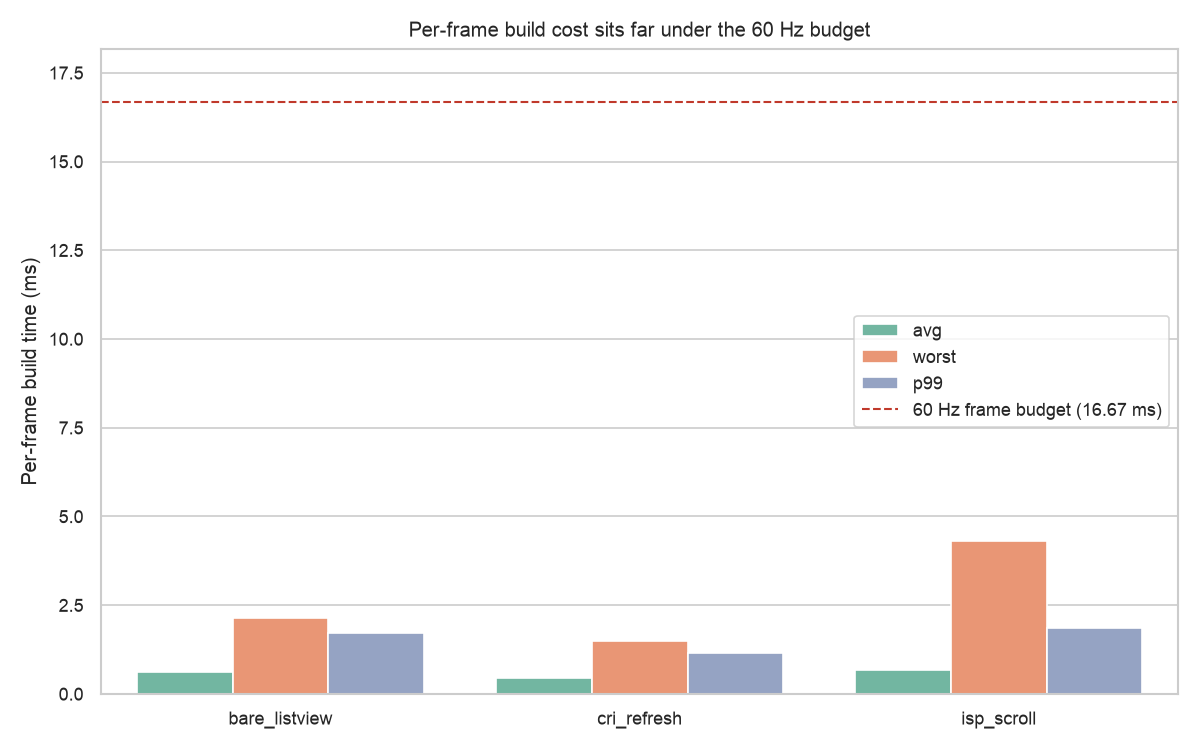
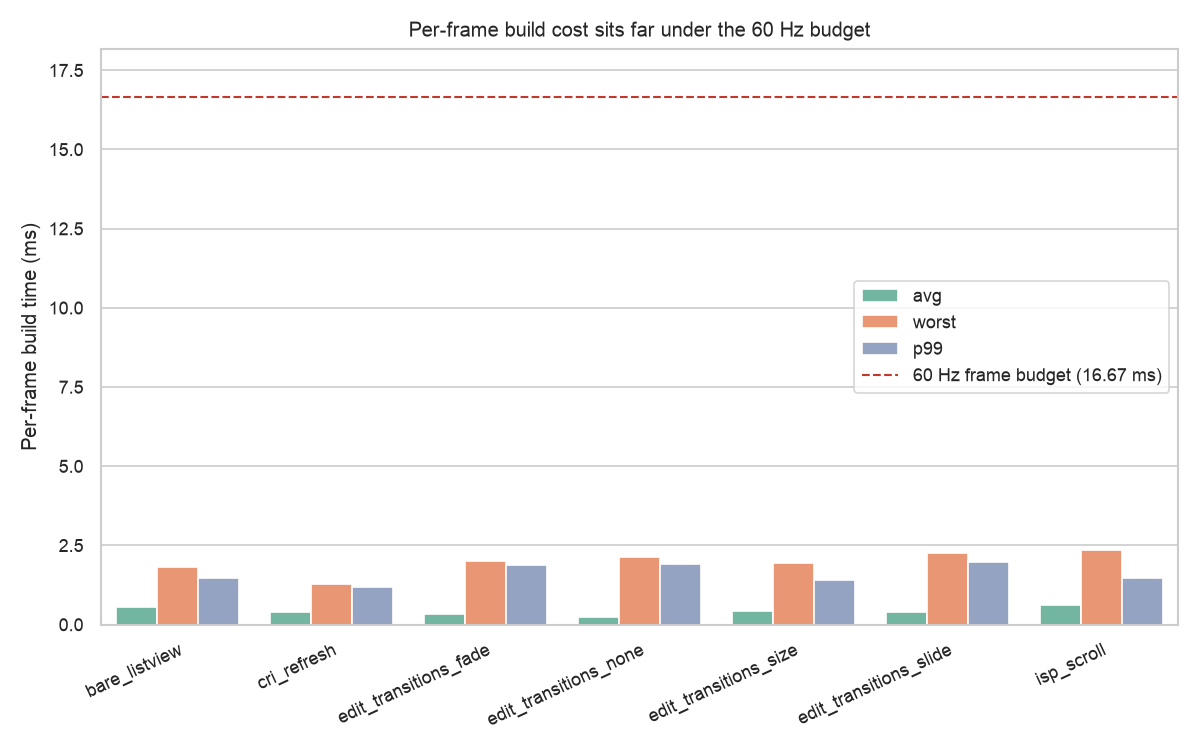
chore(bench): refresh reports at 2.0.0

diff --git a/benchmark/python/list_smith_bench/data/utils/charts.py b/benchmark/python/list_smith_bench/data/utils/charts.py
@@ -257,8 +257,22 @@ def _plot_frame_thread_costs(
         linewidth=1.0,
         label=f"60 Hz frame budget ({budget_ms:.2f} ms)",
     )
-    # A raster spike can pass the budget, and a clipped bar would hide by how much.
-    ax.set_ylim(0, max(budget_ms, long["ms"].max()) + 1.5)
+    top_ms = budget_ms + 1.5
+    ax.set_ylim(0, top_ms)
+    # A spike past the axis gets clipped and labelled, rather than squashing every other bar.
+    for container in ax.containers:
+        for bar in container:
+            if bar.get_height() > top_ms:
+                ax.annotate(
+                    f"{bar.get_height():.0f} ms",
+                    xy=(bar.get_x() + bar.get_width() / 2, top_ms),
+                    xytext=(0, -3),
+                    textcoords="offset points",
+                    ha="center",
+                    va="top",
+                    fontsize=7,
+                    bbox={"boxstyle": "round,pad=0.2", "facecolor": "white", "edgecolor": "none"},
+                )
     ax.set_xlabel("")
     # Tilted, or the edit_transitions_* names run into each other.
     plt.setp(ax.get_xticklabels(), rotation=25, ha="right", rotation_mode="anchor")

diff --git a/benchmark/reports/SUMMARY.md b/benchmark/reports/SUMMARY.md
@@ -1,6 +1,6 @@
 # Benchmark results
 
-Captured **2026-07-18** against `0.0.1` at `63b7319` on Dart SDK 3.12.2. N=10 iterations.
+Captured **2026-09-30** against `1.0.0` at `15aaf6e` on Dart SDK 3.13.4. N=10 iterations.
 
 > Per-machine measurements, reflecting *this* machine's CPU, GPU, GC, OS scheduler and thermal state. Yours WILL differ, so capture your own baseline before measuring a delta.
 
@@ -10,10 +10,10 @@ The headline finding. list_smith invokes your observer *synchronously* on the pa
 
 | Observer delay (ms) | Median render latency (ms) | Render minus observer (ms) | N |
 |---:|---:|---:|---:|
-| 0 | 17.2 | 17.2 | 10 |
-| 25 | 44.0 | 19.0 | 10 |
-| 50 | 69.2 | 19.2 | 10 |
-| 100 | 119.4 | 19.4 | 10 |
+| 0 | 17.0 | 17.0 | 10 |
+| 25 | 43.1 | 18.1 | 10 |
+| 50 | 68.4 | 18.4 | 10 |
+| 100 | 118.0 | 18.0 | 10 |
 
 
 ![Render latency vs observer delay](observer_latency.png)
@@ -24,9 +24,9 @@ From the `sync_search_scaling` micro (AOT, `benchmark_harness`). `SyncListView` 
 
 | List size | N | Median (us) | IQR (us) | Median (ms) |
 |---:|---:|---:|---:|---:|
-| 1,000 | 10 | 370.43 | 1.53 | 0.37 |
-| 10,000 | 10 | 3,925 | 44.34 | 3.93 |
-| 100,000 | 10 | 41,064 | 263.76 | 41.06 |
+| 1,000 | 10 | 371.38 | 1.32 | 0.37 |
+| 10,000 | 10 | 3,940 | 7.86 | 3.94 |
+| 100,000 | 10 | 41,315 | 78.06 | 41.31 |
 
 
 ![Sync-search scaling](sync_search_scaling.png)
@@ -37,22 +37,22 @@ From the `bucket_by_group_scaling` micro (AOT, `benchmark_harness`). Sync groupi
 
 | List size | N | Median (us) | IQR (us) | Median (ms) |
 |---:|---:|---:|---:|---:|
-| 1,000 | 10 | 225.95 | 1.56 | 0.23 |
-| 10,000 | 10 | 2,353 | 26.33 | 2.35 |
-| 100,000 | 10 | 26,079 | 127.91 | 26.08 |
+| 1,000 | 10 | 231.50 | 3.59 | 0.23 |
+| 10,000 | 10 | 2,372 | 32.50 | 2.37 |
+| 100,000 | 10 | 25,689 | 412.04 | 25.69 |
 
 
 ![Sync grouping scaling](bucket_by_group_scaling.png)
 
 ## Overlap de-dup cost vs loaded list size
 
-From the `dedup_scaling` micro (AOT, `benchmark_harness`). With an `itemId`, the async list de-dups overlapping pages as a computed view over the paging state, re-walking every loaded item on each change so the stored pages stay raw and the end policy can't read an all-duplicate page as the end. Measured at its worst case: `itemId` set with no actual overlap, so nothing collapses and every item is retained. Opt-in, and off the scroll path since it runs per page-load rather than per frame. Sub-millisecond for a few thousand loaded items and climbing from there, so past tens of thousands in one live list, de-duplicate at the source.
+From the `dedup_scaling` micro (AOT, `benchmark_harness`). The async list de-dups overlapping pages by `itemId` as a computed view over the paging state, re-walking every loaded item on each change so the stored pages stay raw and the end policy can't read an all-duplicate page as the end. Measured at its worst case: no actual overlap, so nothing collapses and every item is retained. Off the scroll path, since it runs per page-load rather than per frame. Sub-millisecond for a few thousand loaded items and climbing from there, past the frame budget at tens of thousands in one live list.
 
 | Loaded items | N | Median (us) | IQR (us) | Median (ms) |
 |---:|---:|---:|---:|---:|
-| 1,000 | 10 | 320.82 | 16.65 | 0.32 |
-| 10,000 | 10 | 3,601 | 198.99 | 3.60 |
-| 100,000 | 10 | 41,703 | 2,001 | 41.70 |
+| 1,000 | 10 | 293.86 | 0.690 | 0.29 |
+| 10,000 | 10 | 3,300 | 9.46 | 3.30 |
+| 100,000 | 10 | 40,114 | 988.92 | 40.11 |
 
 
 ![itemId de-dup scaling](dedup_scaling.png)
@@ -64,19 +64,40 @@ Confirms the wrapping costs ~nothing. `observer_dispatch` is one no-op observer 
 | Micro | Metric | Median (us) |
 |---|---|---:|
 | `observer_dispatch` | us / dispatch | 0.011 |
-| `wrapping_overhead` (1 page) | us / key | 0.544 |
-| `wrapping_overhead` (10 pages) | us / key | 1.29 |
-| `wrapping_overhead` (100 pages) | us / key | 8.15 |
+| `wrapping_overhead` (1 page) | us / key | 0.563 |
+| `wrapping_overhead` (10 pages) | us / key | 1.31 |
+| `wrapping_overhead` (100 pages) | us / key | 8.09 |
 
-## UI scroll/refresh: per-frame build cost
+## UI scenarios: per-frame build cost
 
-From the profile-mode `integration_test` scenarios, real frames on this machine. `avg`, `worst` and `p99 build` are the UI-thread build cost per frame, which is where list_smith's code runs, and `missed` counts frames over the 16.67ms budget. `isp_scroll` against `bare_listview` (same items and scroll, no list_smith) is the attribution: that small delta is what the wrapper adds to a plain list.
+From the profile-mode `integration_test` scenarios, real frames on this machine. `avg`, `worst` and `p99 build` are the UI-thread build cost per frame, which is where list_smith's code runs, and `missed` counts frames over the 16.67ms budget. `isp_scroll` against `bare_listview` (same items and scroll, no list_smith) is the attribution: that small delta is what the wrapper adds to a plain list. `edit_transitions_none` makes the same edits as `_size`, `_fade` and `_slide` with no transition, so the gap is what animating them adds.
 
 | Scenario | Frames | Avg build (ms) | Worst build (ms) | p99 build (ms) | Missed |
 |---|---:|---:|---:|---:|---:|
-| `bare_listview` | 610 | 0.63 | 2.13 | 1.70 | 0 |
-| `cri_refresh` | 850 | 0.46 | 1.49 | 1.15 | 0 |
-| `isp_scroll` | 609 | 0.68 | 4.30 | 1.86 | 0 |
+| `bare_listview` | 610 | 0.56 | 1.81 | 1.47 | 0 |
+| `cri_refresh` | 849 | 0.40 | 1.27 | 1.19 | 0 |
+| `edit_transitions_fade` | 500 | 0.35 | 2.01 | 1.88 | 0 |
+| `edit_transitions_none` | 500 | 0.25 | 2.13 | 1.92 | 0 |
+| `edit_transitions_size` | 500 | 0.42 | 1.95 | 1.39 | 0 |
+| `edit_transitions_slide` | 500 | 0.40 | 2.24 | 1.99 | 0 |
+| `isp_scroll` | 610 | 0.61 | 2.34 | 1.46 | 0 |
 
 
 ![Per-frame build cost](frame_costs.png)
+
+## UI scenarios: per-frame raster cost
+
+The same frames on the raster thread, which draws what the build produced. `missed` counts frames over the same budget.
+
+| Scenario | Frames | Avg raster (ms) | Worst raster (ms) | p99 raster (ms) | Missed |
+|---|---:|---:|---:|---:|---:|
+| `bare_listview` | 610 | 1.01 | 10.45 | 2.95 | 0 |
+| `cri_refresh` | 849 | 1.16 | 91.99 | 2.34 | 1 |
+| `edit_transitions_fade` | 500 | 1.19 | 9.62 | 1.64 | 0 |
+| `edit_transitions_none` | 500 | 0.93 | 9.36 | 5.45 | 0 |
+| `edit_transitions_size` | 500 | 1.04 | 9.01 | 1.52 | 0 |
+| `edit_transitions_slide` | 500 | 1.25 | 10.41 | 5.88 | 0 |
+| `isp_scroll` | 610 | 1.07 | 6.74 | 2.99 | 0 |
+
+
+![Per-frame raster cost](frame_raster_costs.png)

diff --git a/README.md b/README.md
@@ -362,7 +362,7 @@ Nothing to dispose, and async-only. To *watch* the list rather than drive it, us
 ## Editing loaded items
 
 A swipe-to-delete, a post you just created, a rename. When you already know what changed, skip the
-re-read: tell the list, and it shows the change at once, keeping the scroll position.
+re-read: just notify the list, and it shows the change at once, keeping the scroll position.
 
 ```dart
 ListSmith.async(
@@ -383,16 +383,16 @@ Both are sync and return nothing, since the list takes the change as already tru
 in your store. Where the item shows:
 
 - A loaded item changes in place.
-- A new one goes on top, newest first. On a [grouped](#grouping) list it joins the start of its
-  group, or goes on top if that group isn't loaded.
+- A new one goes on top, the newest first. On a [grouped](#grouping) list it joins the start of its
+  group or goes on top if that group isn't loaded.
 - An item whose group changed moves to the start of its new group.
 - While searching, a new item waits for the feed, since only your server knows what matches the
   query. Changes and removals show in the results too.
 
 An edit lasts until the pages it covers are read again, and a page loaded after it shows your
 server's copy. So after a failed save, a refresh puts that copy back. Removals never end the list
-early: the end policy still counts what the server sent, and removing every row on screen loads the
-next page.
+early: the end policy still counts what the server sent, and removing every row on the screen loads
+the next page.
 
 Rows follow their item, so a row keeps its own state, like an open tile or a swipe halfway done,
 while rows above it come and go.
@@ -410,7 +410,7 @@ itemBuilder: (context, task, index) => Dismissible(
 The row has to go before your server has answered, so if the delete then fails, a refresh brings it
 back.
 
-> On an offset-paged list, a delete on your server moves every later row up a place, so the next
+> On an offset-paged list, a deletion on your server moves every later row up a place, so the next
 > page skips one. Use cursor paging for a list you edit, for now.
 
 ### Animating edits
@@ -426,14 +426,14 @@ ListSmith.async(
   controller: controller,
   editTransition: EditTransition(
     duration: const Duration(milliseconds: 300),
-    builder: (child, animation) => SizeTransition(sizeFactor: animation, child: child),
+    transitionBuilder: (child, animation) => SizeTransition(sizeFactor: animation, child: child),
   ),
 )
 ```
 
-The builder runs forward for a row coming in and backwards for one going out, so any transition
-works, `AnimatedSwitcher.defaultTransitionBuilder` included. list_smith brings the timing, not a
-look.
+The transitionBuilder runs forward for a row coming in and backwards for one going out, so any
+transition works, `AnimatedSwitcher.defaultTransitionBuilder` included. list_smith brings the timing,
+not a look.
 
 - Only edits animate. Page loads, reloads and rows scrolling in show at once.
 - A removed row stays until its exit ends, so upserting it meanwhile brings it back.
@@ -753,12 +753,13 @@ the wrapping is close to free. Measured on one machine (yours will differ), from
 
 | What                                                 | Cost                                                                          |
 |------------------------------------------------------|-------------------------------------------------------------------------------|
-| Scrolling                                            | within ~0.03 ms/frame of a plain `ListView.builder`, neither dropping a frame |
+| Scrolling                                            | within ~0.05 ms/frame of a plain `ListView.builder`, neither dropping a frame |
 | Per-page bookkeeping (end policy, observer dispatch) | sub-microsecond to a few microseconds                                         |
-| A full pull-to-refresh cycle                         | ~0.4 ms/frame, 0 frames over the 16.67 ms budget                              |
-| Sync search, per committed query                     | ~0.4 ms at 1k items, ~4 ms at 10k, ~42 ms at 100k                             |
-| Sync grouping, per committed query                   | ~0.2 ms at 1k, ~2.4 ms at 10k, ~27 ms at 100k                                 |
-| `itemId` de-dup, per page arriving                   | ~0.3 ms at 1k loaded, ~3.4 ms at 10k, ~39 ms at 100k                          |
+| A full pull-to-refresh cycle                         | ~0.4 ms/frame to build, none over the 16.67 ms budget                         |
+| Animating edits (size, fade or slide)                | +0.1 to 0.3 ms/frame over the same edits unanimated, none over budget         |
+| Sync search, per committed query                     | ~0.4 ms at 1k items, ~4 ms at 10k, ~41 ms at 100k                             |
+| Sync grouping, per committed query                   | ~0.2 ms at 1k, ~2.4 ms at 10k, ~26 ms at 100k                                 |
+| `itemId` de-dup, per page arriving                   | ~0.3 ms at 1k loaded, ~3.3 ms at 10k, ~40 ms at 100k                          |
 | A 50 ms observer callback                            | pushes render latency to ~68 ms                                               |
 
 Sync search and grouping are O(n) per query and cross the frame budget around 100k items, so lean
@@ -773,6 +774,8 @@ Numbers are per-machine, so capture your own baseline before trusting a delta. T
 ![Render latency vs observer delay](benchmark/reports/observer_latency.png)
 
 ![Per-frame build cost vs the 60 Hz budget](benchmark/reports/frame_costs.png)
+
+![Per-frame raster cost vs the 60 Hz budget](benchmark/reports/frame_raster_costs.png)
 
 ![Sync-search cost vs list size](benchmark/reports/sync_search_scaling.png)
 

diff --git a/APPENDIX.md b/APPENDIX.md
@@ -329,8 +329,8 @@ renames.
   derivation, so search-mode overlaps de-dup exactly like normal-mode ones.
 - **Cost, and why it's acceptable:** O(loaded items), re-run on each state change. There is no
   cheaper seam without storing de-duped pages plus a parallel raw-count side-channel for the end
-  policy, since ISP re-materialises the whole page list on every change anyway. Measured with no
-  real overlap: ~0.3 ms at 1k items, ~3.5 ms at 10k, ~40 ms at 100k. Memoised on paging-state
+  policy, since ISP re-materialises the whole page list on every change anyway. The [benchmark
+  report](benchmark/reports/SUMMARY.md) measures it with no real overlap. Memoised on paging-state
   identity, so a keystroke before the debounce commits reuses the last view. Sub-millisecond for
   most lists, with the cliff only at tens of thousands in one live list, which strains widget count
   and memory regardless.
